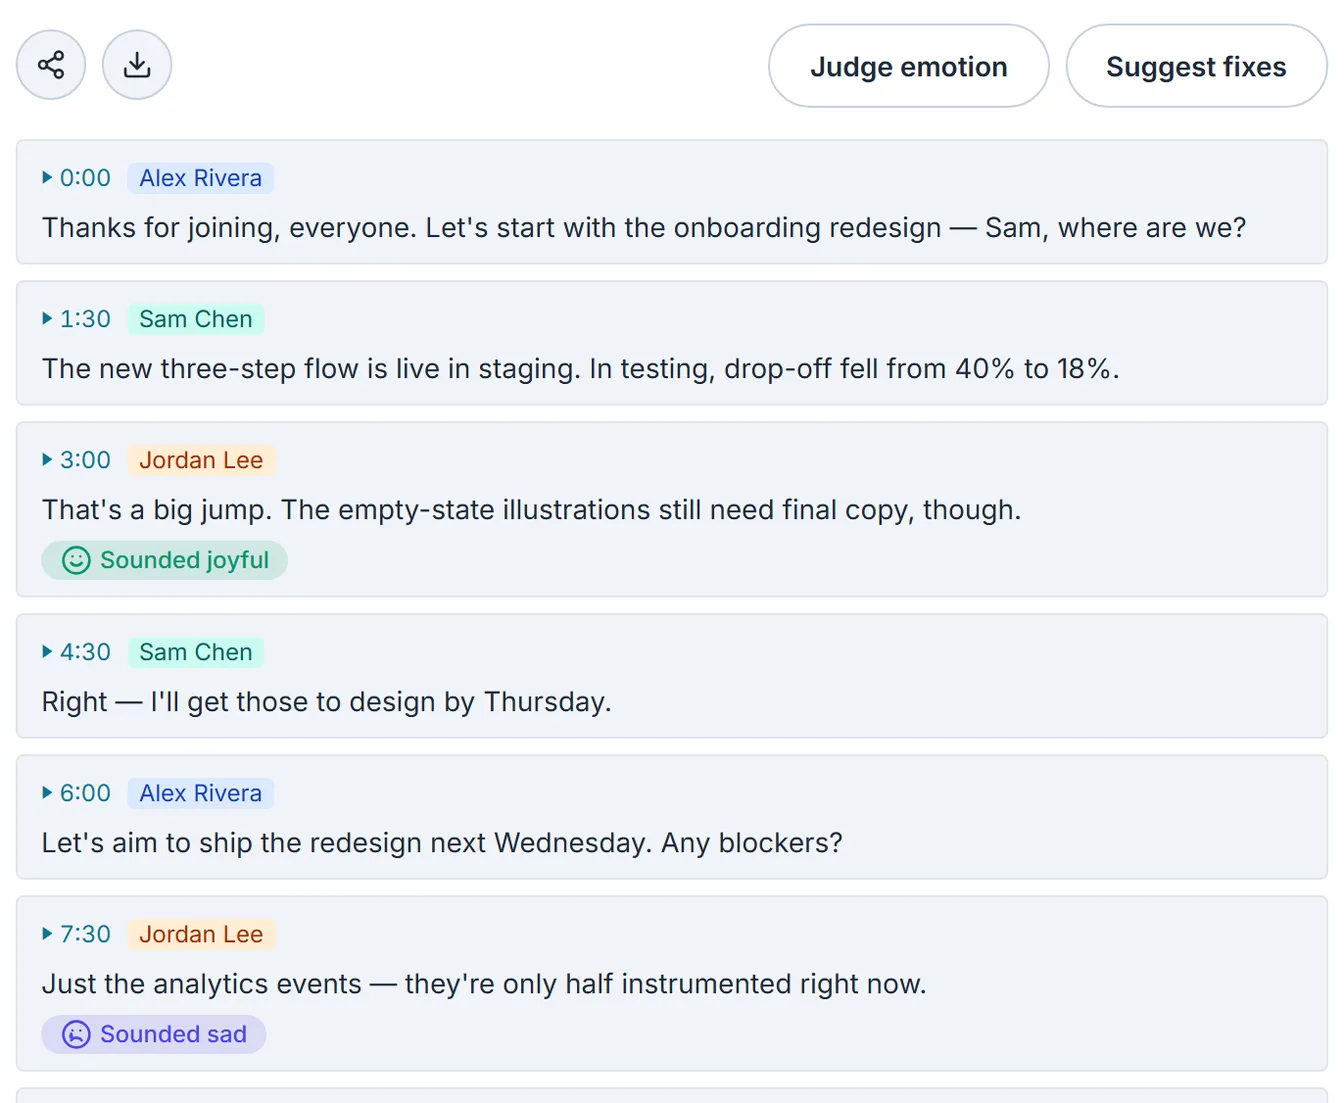
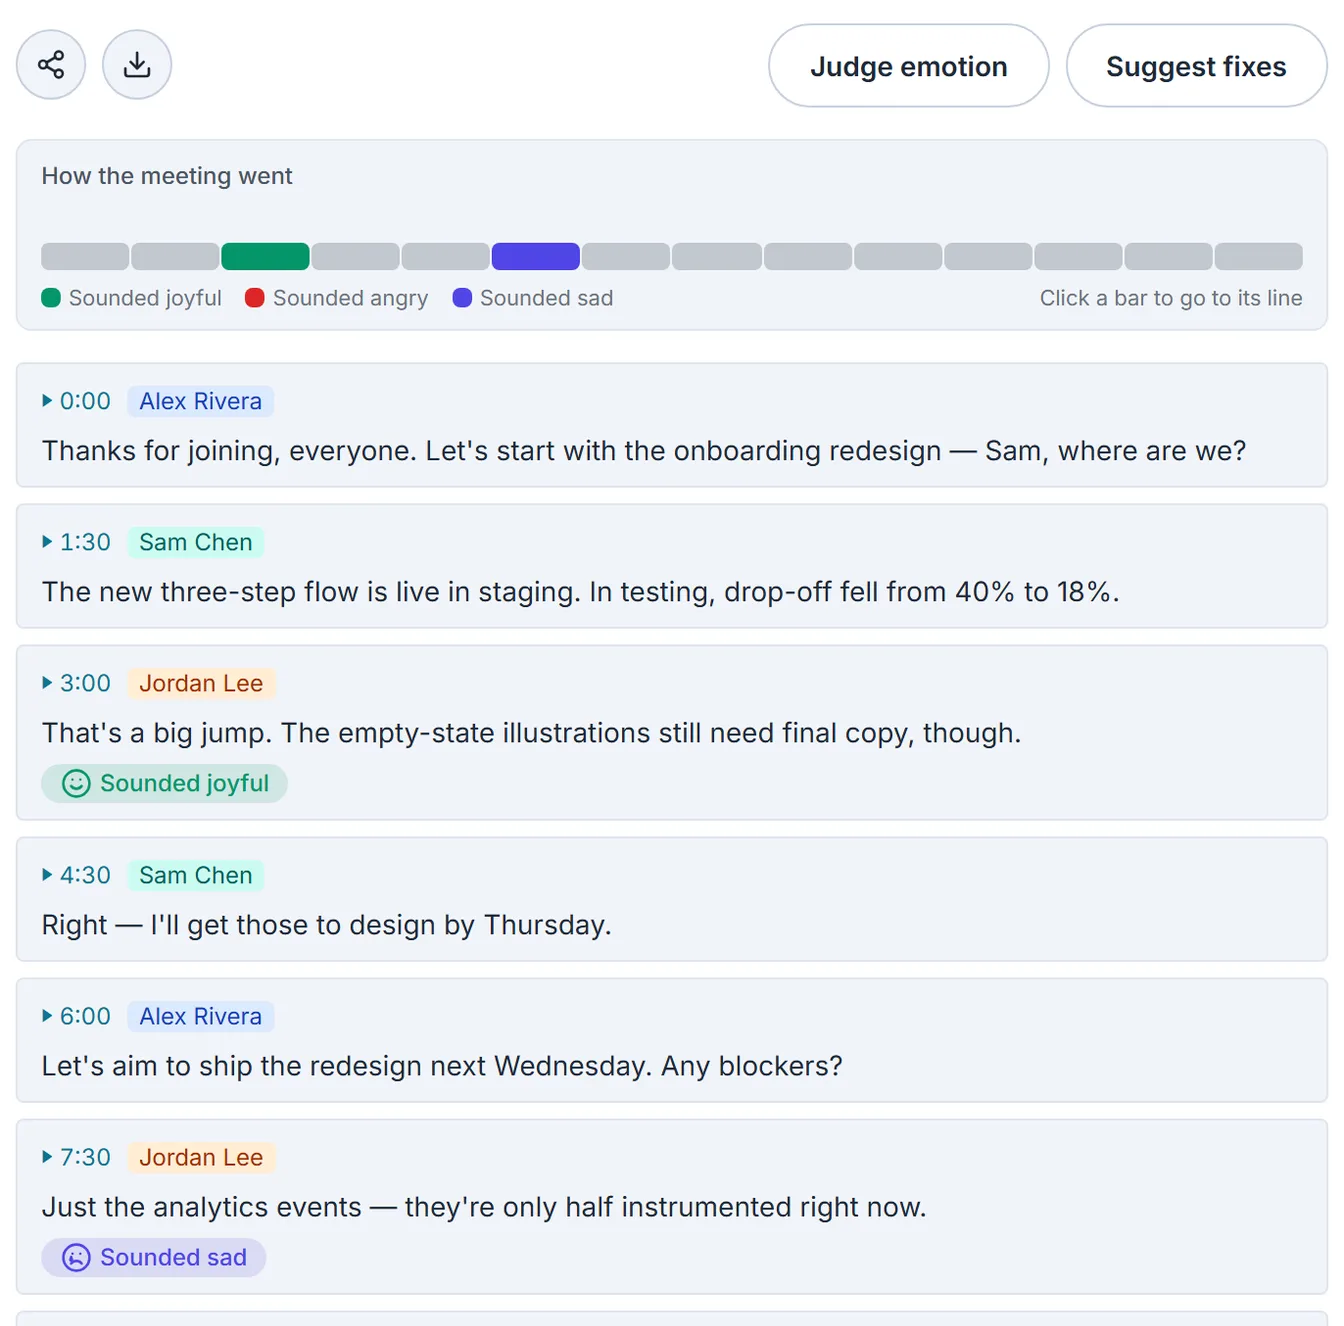
Show how a meeting went as a strip of bars
Above the transcript, one bar per line in the order they were said: its
colour is what the line sounded like (Emotion) and its height how loud
it was against the speaker's usual (Voice cues), so where a discussion
rose, fell or turned shows before any line is read. A bar shows its
time and opening words, and takes you to its line.

Shown only when one of the two has something to show; either alone is
enough.

diff --git a/app/[id]/mood-strip.tsx b/app/[id]/mood-strip.tsx
@@ -1,0 +1,112 @@
+"use client";
+
+import { emotionMark, readEmotion } from "@/lib/emotion";
+import { readCues } from "@/lib/voice-cues";
+import { formatOffset } from "@/lib/utils";
+import { useT } from "@/app/locale-provider";
+
+// The meeting at a glance: one bar per line, in the order they were said. Its colour is what the
+// line sounded like (Emotion) and its height how loud it was against that speaker's usual (Voice
+// cues), so where a discussion rose, fell or turned shows before any line is read. A bar takes
+// you to its line.
+//
+// Shown only once one of the two has something to show; either alone is enough — no colour
+// without Emotion, an even height without Voice cues.
+
+type Line = { id: string; text: string; voice?: string | null; emotion?: string | null };
+
+const MOOD_COLOR = { joy: "--mood-joy", anger: "--mood-anger", sadness: "--mood-sad" } as const;
+
+/** Bar heights in px, from quiet to loud. Loudness is clamped at two deviations either way. */
+const MIN_H = 6;
+const MID_H = 14;
+const MAX_H = 28;
+
+export function heightFor(loud: number | undefined): number {
+  if (typeof loud !== "number") return MID_H;
+  const z = Math.max(-2, Math.min(2, loud));
+  return Math.round(z >= 0 ? MID_H + (z / 2) * (MAX_H - MID_H) : MID_H + (z / 2) * (MID_H - MIN_H));
+}
+
+export function MoodStrip({
+  lines,
+  elapsed,
+  showEmotion,
+  showVoice,
+}: {
+  lines: Line[];
+  /** Seconds from the start of the meeting to each line, by index. */
+  elapsed: (i: number) => number | null;
+  showEmotion: boolean;
+  showVoice: boolean;
+}) {
+  const t = useT();
+  const bars = lines.map((l) => ({
+    id: l.id,
+    text: l.text,
+    mood: showEmotion ? emotionMark(readEmotion(l.emotion)) : null,
+    loud: showVoice ? readCues(l.voice)?.loud : undefined,
+  }));
+  const anything = bars.some((b) => b.mood || typeof b.loud === "number");
+  if (!anything) return null;
+
+  const jump = (id: string) => {
+    const row = document.getElementById(`line-${id}`);
+    if (!row) return;
+    row.scrollIntoView({ behavior: "smooth", block: "center" });
+    row.classList.add("ring-2", "ring-[var(--accent)]");
+    setTimeout(() => row.classList.remove("ring-2", "ring-[var(--accent)]"), 1600);
+  };
+
+  const feeling = (e: NonNullable<(typeof bars)[number]["mood"]>["emotion"]) =>
+    e === "joy" ? t("Sounded joyful") : e === "anger" ? t("Sounded angry") : t("Sounded sad");
+
+  return (
+    <div className="mt-4 rounded-lg border border-[var(--border)] bg-[var(--elevated)] px-3 pb-2 pt-2.5">
+      <p className="text-xs font-medium text-[var(--text-secondary)]">{t("How the meeting went")}</p>
+      <div className="mt-2 flex h-8 items-end gap-px" role="list" aria-label={t("How the meeting went")}>
+        {bars.map((b, i) => {
+          const at = elapsed(i);
+          const label = [
+            at !== null ? formatOffset(at) : null,
+            b.mood ? feeling(b.mood.emotion) : null,
+            b.text.length > 40 ? `${b.text.slice(0, 40)}…` : b.text,
+          ]
+            .filter(Boolean)
+            .join(" · ");
+          return (
+            <button
+              key={b.id}
+              type="button"
+              role="listitem"
+              onClick={() => jump(b.id)}
+              title={label}
+              aria-label={label}
+              className="min-w-0 flex-1 rounded-sm transition-opacity hover:opacity-70 focus-visible:outline focus-visible:outline-2 focus-visible:outline-[var(--accent)]"
+              style={{
+                height: `${heightFor(b.loud)}px`,
+                background: b.mood
+                  ? `var(${MOOD_COLOR[b.mood.emotion]})`
+                  : "color-mix(in srgb, var(--text-muted) 35%, transparent)",
+              }}
+            />
+          );
+        })}
+      </div>
+      <div className="mt-1.5 flex flex-wrap items-center gap-x-3 gap-y-1 text-[11px] text-[var(--text-muted)]">
+        {showEmotion ? (
+          <>
+            {(["joy", "anger", "sadness"] as const).map((e) => (
+              <span key={e} className="inline-flex items-center gap-1">
+                <span className="inline-block h-2.5 w-2.5 rounded-sm" style={{ background: `var(${MOOD_COLOR[e]})` }} />
+                {feeling(e)}
+              </span>
+            ))}
+          </>
+        ) : null}
+        {showVoice ? <span>{t("Taller: louder than the speaker usually was")}</span> : null}
+        <span className="ml-auto">{t("Click a bar to go to its line")}</span>
+      </div>
+    </div>
+  );
+}

diff --git a/app/[id]/transcript-list.tsx b/app/[id]/transcript-list.tsx
@@ -42,6 +42,7 @@ import { useT } from "@/app/locale-provider";
 import { useExtensions } from "@/app/extensions-provider";
 import { type CueMark, marks, readCues } from "@/lib/voice-cues";
 import { emotionMark, readEmotion } from "@/lib/emotion";
+import { MoodStrip } from "./mood-strip";
 
 type SttSettings = { sttProfiles?: PublicSttProfile[]; sttDefaultProfileId?: string };
 
@@ -1545,6 +1546,16 @@ export function TranscriptList({
         </p>
       ) : null}
 
+      {/* The meeting at a glance, from what Emotion and Voice cues found (mood-strip.tsx). */}
+      {!live && transcripts.length > 0 ? (
+        <MoodStrip
+          lines={transcripts}
+          elapsed={elapsedSeconds}
+          showEmotion={extensions.emotion}
+          showVoice={extensions.voiceCues}
+        />
+      ) : null}
+
       {transcripts.length === 0 ? (
         <p className="mt-4 text-sm text-[var(--text-muted)]">
           {/* One being made is not the same as none. */}
@@ -1643,7 +1654,10 @@ function TranscriptRow({
   };
 
   return (
-    <li className="group rounded border border-[var(--border)] bg-[var(--elevated)] px-3 py-2 text-sm">
+    <li
+      id={`line-${item.id}`}
+      className="group rounded border border-[var(--border)] bg-[var(--elevated)] px-3 py-2 text-sm transition-shadow"
+    >
       <div className="flex items-center gap-2">
         {canSeek ? (
           <button

diff --git a/lib/i18n/ja.ts b/lib/i18n/ja.ts
@@ -709,6 +709,9 @@ export const ja: Record<string, string> = {
   "Judging emotion failed.": "感情の推定に失敗しました。",
   "Judged from the voice alone: how a line sounded, not what anybody felt.": "声だけからの推定です。どう聞こえたかであって、本人の気持ちではありません。",
   "Judged from the voice alone ({p}% sure): how the line sounded, not what anybody felt.": "声だけからの推定です（確からしさ {p}%）。どう聞こえたかであって、本人の気持ちではありません。",
+  "How the meeting went": "会議の流れ",
+  "Taller: louder than the speaker usually was": "高い棒：その人のいつもより大きな声",
+  "Click a bar to go to its line": "棒をクリックするとその発言へ移動します",
   "Sounded joyful": "うれしそう",
   "Sounded angry": "怒っていそう",
   "Sounded sad": "悲しそう",

diff --git a/tests/emotion.test.ts b/tests/emotion.test.ts
@@ -35,3 +35,14 @@ describe("the job", () => {
     );
   });
 });
+
+describe("the meeting at a glance", () => {
+  it("draws a louder line taller and a quieter one shorter, and an unmeasured one in between", async () => {
+    const { heightFor } = await import("@/app/[id]/mood-strip");
+    expect(heightFor(2)).toBeGreaterThan(heightFor(0));
+    expect(heightFor(-2)).toBeLessThan(heightFor(0));
+    expect(heightFor(undefined)).toBe(heightFor(0));
+    // Clamped, so one shout does not dwarf the rest.
+    expect(heightFor(6)).toBe(heightFor(2));
+  });
+});
